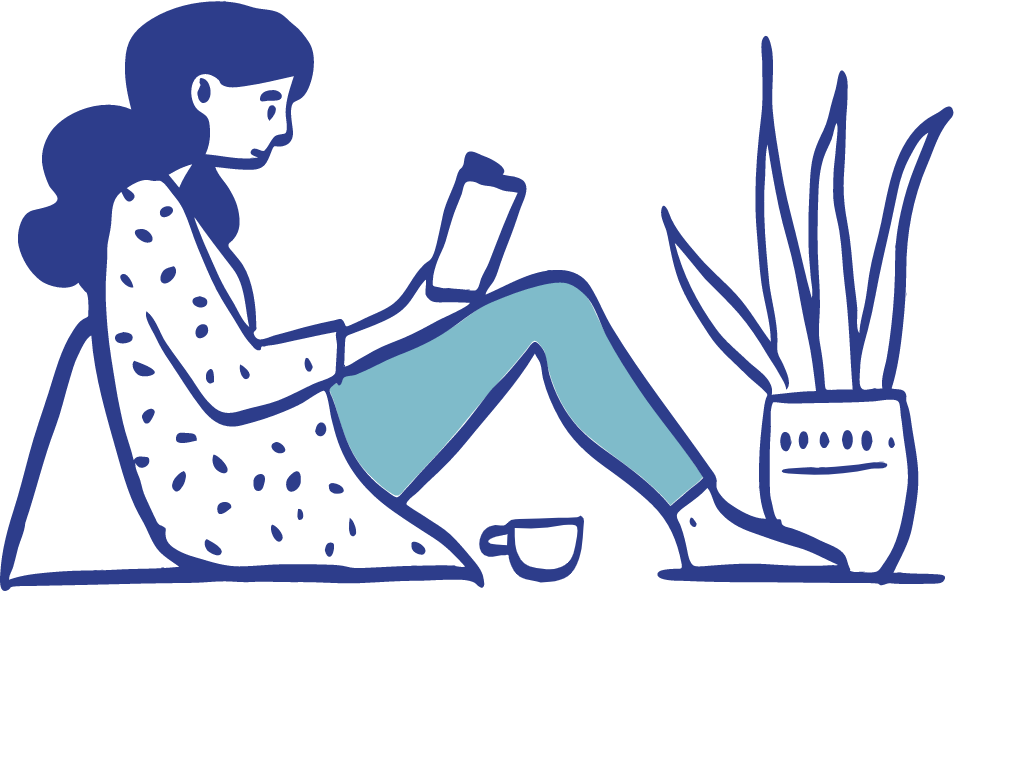
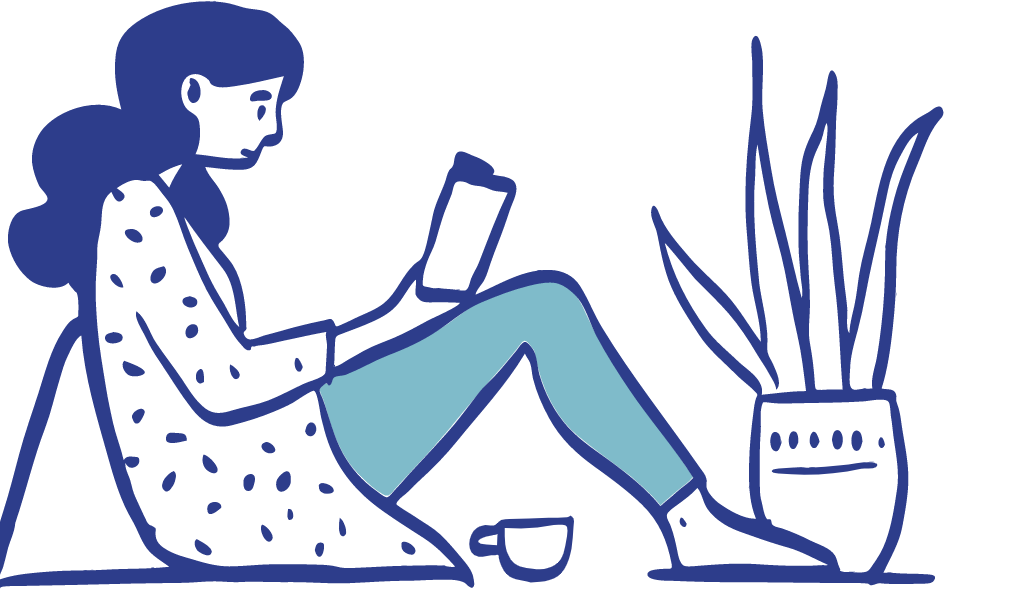
Change main color, convert contact page to about page, add about page

diff --git a/src/pages/Contact.js b/src/pages/Contact.js
@@ -1,35 +1,17 @@
 import React from 'react';
 import styled from 'styled-components';
 import { FaLinkedinIn, FaRegEnvelope, FaGithub } from 'react-icons/fa';
+import Title from '../components/Title';
 
 const Contact = () => {
 
   return (
     <ContactWrapper>
+      <Title title="about" />
       <div className="contact-text">
-        <h1>Find me on social media or send me a message!</h1>
-        <div className="social-icons">
-          <a href="https://www.linkedin.com/in/christina-yun-58954a123/">
-            <FaLinkedinIn className="footer-icon" />
-          </a>
-          <a href="mailto:yjc.yun@gmail.com">
-            <FaRegEnvelope className="footer-icon" />
-          </a>
-          <a href="https://github.com/yjcyun">
-            <FaGithub className="footer-icon" />
-          </a>
-        </div>
+        <p>I am an ex-Registered Veterinary Technician who decided to become a web developer. I enjoy learning new technologies and am always fascinated by how much I do not know about this world. Should you want to learn more about me, do not hestitate to send me a message.</p>
       </div>
-      <div className="contact">
-        <form
-          action="https://formspree.io/christina5707@gmail.com"
-          method="POST">
-          <input type="text" name="name" placeholder="Name" required />
-          <input type="email" name="email" placeholder="Email" required />
-          <textarea cols="30" rows="15" placeholder="Message" required />
-          <button className="btn" type="submit" style={{ marginTop: '2rem' }}>send</button>
-        </form>
-      </div>
+    
     </ContactWrapper>
   )
 }
@@ -37,46 +19,15 @@ const Contact = () => {
 const ContactWrapper = styled.section`
  .contact-text {
     width: 80%;
-    max-width: 30rem;
+    max-width: 40rem;
     text-align: center;
-    margin: 3rem auto;
-    padding-top: 3rem;
+    margin: 2rem auto;
   }
 
-  .contact-text h1{
+  .contact-text p{
     line-height:1.5;
-    margin-bottom: 2rem;
-    font-size: 2rem;
+    margin-bottom: 5rem;
+    font-size: 1.4rem;
   }
-
-  .footer-icon{
-    font-size: 2.3rem;
-    color: black;
-    margin: 1rem 2rem;
-    transition: var(--mainTransition);
-  }
-
-  .footer-icon:hover {
-    transform: translateY(-1rem);
-  }
-
-  .contact {
-    max-width: 35rem;
-    width: 80%;
-    text-align: center;
-    margin: 1rem auto;
-  }
-
-  input, textarea {
-    display: block;
-    width: 100%;
-    padding: 0.8rem;
-    margin: 0.7rem 0;
-    outline: none;
-    font-size: 1rem;
-    ::placeholder {
-      font-family: 'Poppins', sans-serif;
-    }
-  } 
 `;
 export default Contact

diff --git a/src/index.css b/src/index.css
@@ -1,9 +1,10 @@
 @import url('https://fonts.googleapis.com/css2?family=Playfair+Display:wght@700&family=Sacramento&family=Poppins&display=swap');
 
 :root {
-  --mainColor: #FF6161;
+  --mainColor: #7fbbca;
   --mainTransition: all 0.2s linear;
   --lightestColor: #fffbfb;
+  --faintBlue: #fcfdfe;
 }
 
 * {
@@ -13,7 +14,7 @@
 }
 
 body {
- font-family: 'Poppins', sans-serif;
+  font-family: 'Poppins', sans-serif;
   padding-top: 79px;
 }
 
@@ -30,7 +31,7 @@ a {
 }
 
 .img-container img {
-  width: 100%
+  width: 100%;
 }
 
 .btn {
@@ -54,8 +55,8 @@ a {
   background: black;
 }
 
-@media screen and (min-width: 768px){
-.btn.left-btn {
-  margin: 0;
-}
+@media screen and (min-width: 768px) {
+  .btn.left-btn {
+    margin: 0;
+  }
 }

diff --git a/src/pages/Home.js b/src/pages/Home.js
@@ -1,7 +1,7 @@
 import React from 'react'
 import Hero from '../components/Home/Hero';
 import Recent from '../components/Home/Recent';
-import mainBcg from '../image/mainBcg.png';
+import mainBcg from '../image/mainBcg-blue.png';
 // https://www.opendoodles.com/
 
 const Home = () => {
@@ -11,7 +11,7 @@ const Home = () => {
       img={mainBcg}
       title="Hi there," 
       title2="I'm Christina."
-      title3="A React developer"
+      title3="A front-end developer"
       title4="in Toronto, ON" />
       <Recent />
     </>

diff --git a/src/components/Footer.js b/src/components/Footer.js
@@ -32,8 +32,11 @@ const FooterWrapper = styled.footer`
   .wave-container {
     position:relative;
     overflow:hidden;
-    background: rgb(255,255,255);
-    background: linear-gradient(rgba(255,255,255,1) 0%, rgba(255,225,225,1) 100%);
+    /* background: rgb(255,255,255); */
+    /* background: linear-gradient(rgba(255,255,255,1) 0%, rgba(255,225,225,1) 100%); */
+    background-color: var(--mainColor);
+background-image: linear-gradient(#fff 0%,#cfdfef 100%);
+
     text-align:center;
   }
 

diff --git a/src/context/linkData.js b/src/context/linkData.js
@@ -11,7 +11,7 @@ export const linkData = [
   },
   {
     id: 2,
-    text: 'contact',
-    path: '/contact'
+    text: 'about',
+    path: '/about'
   }
 ];
